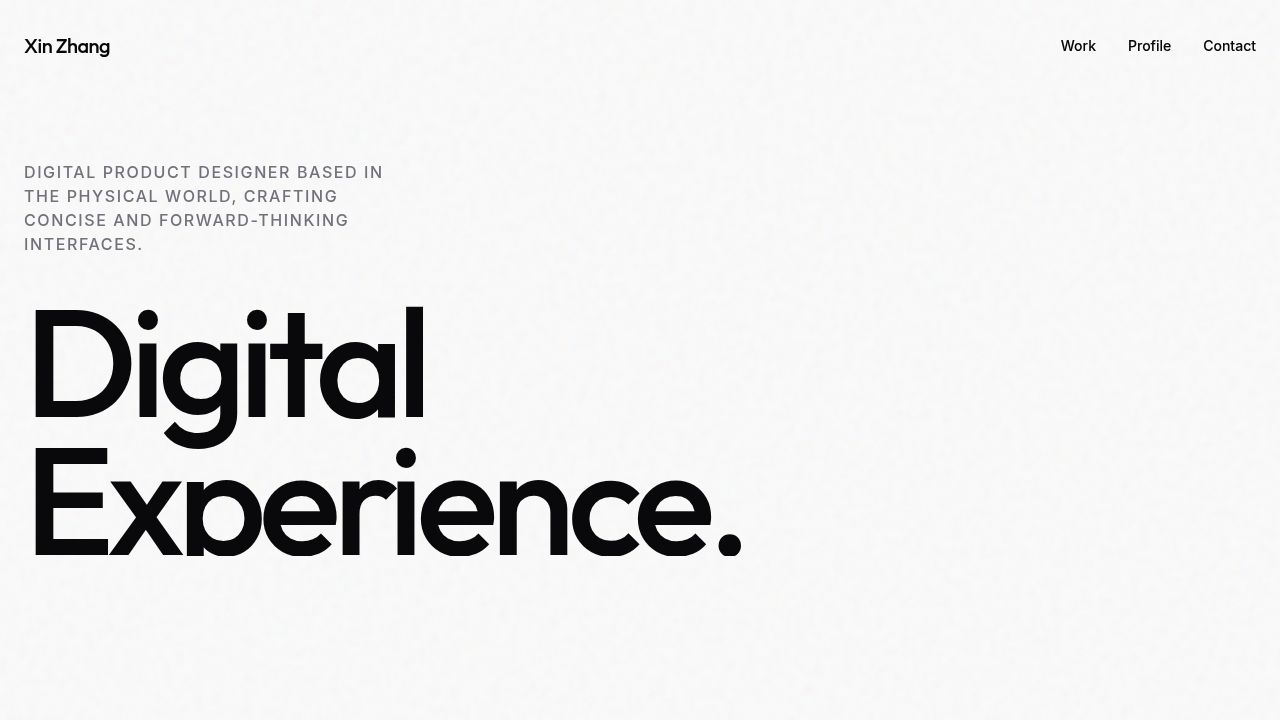
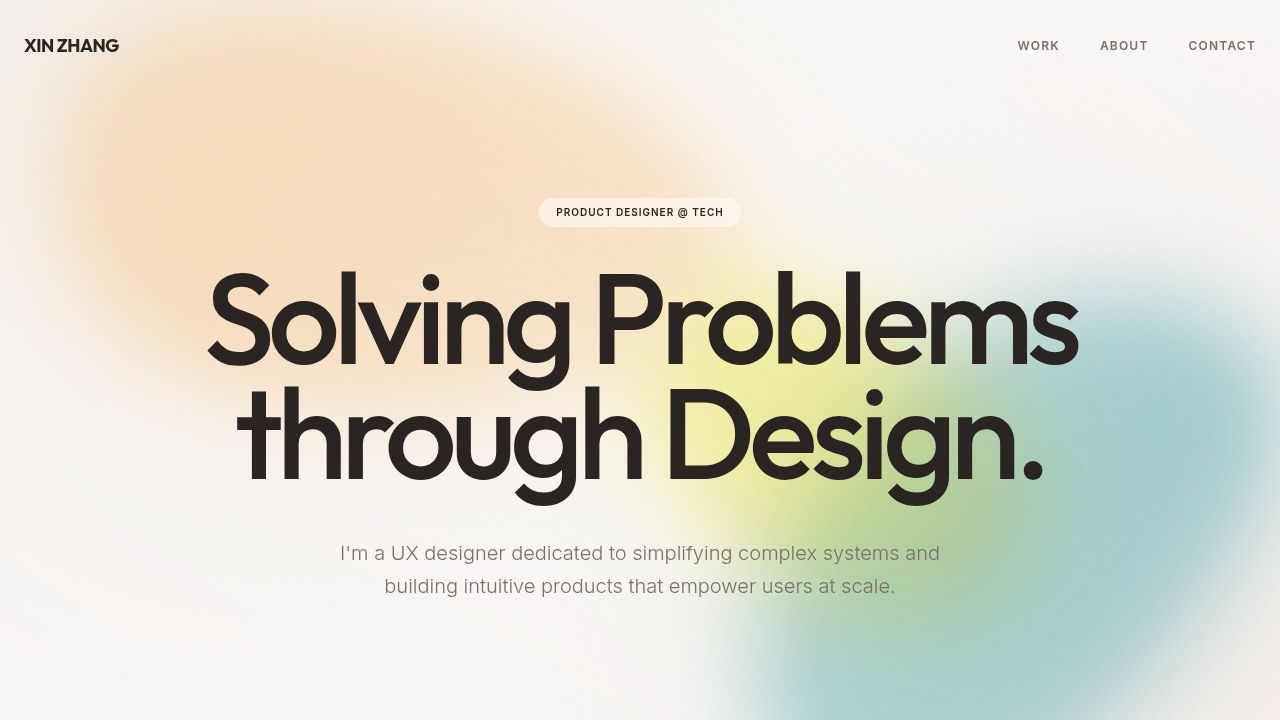
Enhance morphing background elements with vibrant colors and motion
Update background blob animations and colors for increased visual presence, and apply backdrop blur for depth.

Replit-Commit-Author: Agent
Replit-Commit-Session-Id: f1d9883b-7811-472e-a938-22fe183b12d0
Replit-Commit-Checkpoint-Type: full_checkpoint
Replit-Commit-Event-Id: 7c97bf84-824d-4cb2-b6f9-d0ce7034b676
Replit-Commit-Screenshot-Url: https://storage.googleapis.com/screenshot-production-us-central1/147765b9-5f97-444c-921c-ebad01cbc9a7/f1d9883b-7811-472e-a938-22fe183b12d0/6mE36GU
Replit-Helium-Checkpoint-Created: true

diff --git a/client/src/pages/Home.tsx b/client/src/pages/Home.tsx
@@ -31,10 +31,10 @@ export default function Home() {
     <div className="bg-background min-h-screen relative overflow-hidden text-foreground selection:bg-accent selection:text-accent-foreground font-sans">
       {/* Background Elements */}
       <div className="fixed inset-0 pointer-events-none z-0">
-        <div className="absolute top-[-10%] left-[-10%] w-[60%] h-[60%] bg-[#f3e9dc] morphing-blob" />
-        <div className="absolute bottom-[-10%] right-[-10%] w-[50%] h-[50%] bg-[#e9ecef] morphing-blob" style={{ animationDelay: '-5s' }} />
-        <div className="absolute top-[20%] right-[10%] w-[40%] h-[40%] bg-[#f8f9fa] morphing-blob" style={{ animationDelay: '-10s' }} />
-        <div className="absolute inset-0 bg-organic-gradient" />
+        <div className="absolute top-[5%] left-[5%] w-[50%] h-[50%] bg-[#fbd1a2] morphing-blob" />
+        <div className="absolute bottom-[5%] right-[5%] w-[45%] h-[45%] bg-[#7ebdc2] morphing-blob" style={{ animationDelay: '-4s' }} />
+        <div className="absolute top-[40%] right-[15%] w-[35%] h-[35%] bg-[#efea5a] morphing-blob" style={{ animationDelay: '-8s' }} />
+        <div className="absolute inset-0 bg-organic-gradient backdrop-blur-[60px]" />
       </div>
 
       <Navbar />

diff --git a/client/src/index.css b/client/src/index.css
@@ -98,15 +98,24 @@
   }
   
   .morphing-blob {
-    animation: morph 20s ease-in-out infinite;
-    filter: blur(80px);
-    opacity: 0.6;
+    animation: morph 12s ease-in-out infinite;
+    filter: blur(40px);
+    opacity: 0.8;
     mix-blend-mode: multiply;
   }
 
   @keyframes morph {
-    0%, 100% { border-radius: 40% 60% 70% 30% / 40% 40% 60% 50%; transform: translate(0,0) rotate(0deg); }
-    33% { border-radius: 70% 30% 50% 50% / 30% 30% 70% 70%; transform: translate(10%, 5%) rotate(120deg); }
-    66% { border-radius: 30% 70% 70% 30% / 50% 50% 30% 30%; transform: translate(-5%, 10%) rotate(240deg); }
+    0%, 100% { 
+      border-radius: 40% 60% 70% 30% / 40% 40% 60% 50%; 
+      transform: translate(0, 0) scale(1) rotate(0deg); 
+    }
+    33% { 
+      border-radius: 70% 30% 50% 50% / 30% 30% 70% 70%; 
+      transform: translate(15%, 10%) scale(1.1) rotate(120deg); 
+    }
+    66% { 
+      border-radius: 30% 70% 70% 30% / 50% 50% 30% 30%; 
+      transform: translate(-10%, 15%) scale(0.9) rotate(240deg); 
+    }
   }
 }
